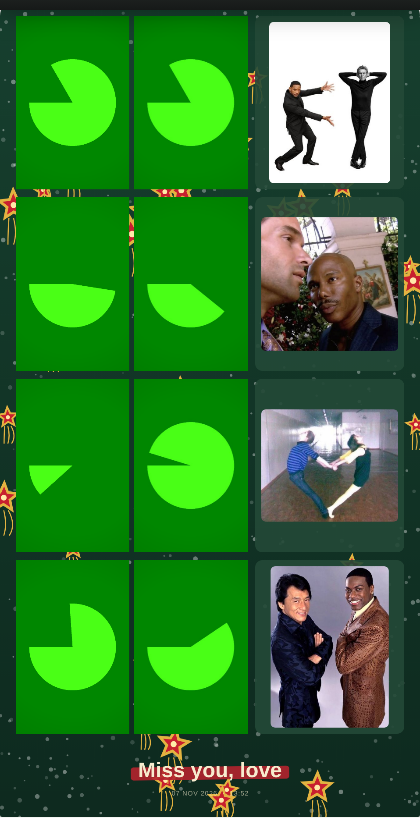
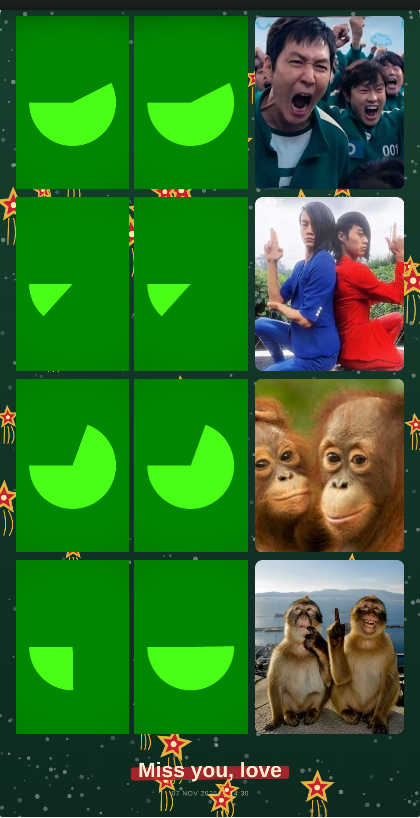
Memes fill the whole side panel on the print
Each meme now covers its pose panel edge to edge, the same height as
the photo beside it (cropped to fit, kept toward the top for faces).

diff --git a/js/booth.js b/js/booth.js
@@ -120,9 +120,10 @@
     const cx = r.x + r.w / 2, cy = r.y + pad + ah / 2;
     if (poseMode === "meme") {
       const im = poseArt(idx, frame, duo);
-      if (im) { // the meme picture, whole, with rounded corners
-        const iw = im.naturalWidth || 100, ih = im.naturalHeight || 100, s = Math.min(aw / iw, ah / ih), w = iw * s, h = ih * s, x = cx - w / 2, y = cy - h / 2;
-        ctx.save(); ctx.beginPath(); ctx.roundRect ? ctx.roundRect(x, y, w, h, 10) : ctx.rect(x, y, w, h); ctx.clip(); ctx.drawImage(im, x, y, w, h); ctx.restore();
+      if (im) { // the meme fills the whole side panel, same height as the photo (cropped to fit, kept toward the top for faces)
+        const iw = im.naturalWidth || 100, ih = im.naturalHeight || 100, s = Math.max(r.w / iw, r.h / ih), w = iw * s, h = ih * s;
+        const x = r.x + (r.w - w) / 2, y = r.y + (r.h - h) * .3;
+        ctx.save(); ctx.beginPath(); ctx.roundRect ? ctx.roundRect(r.x, r.y, r.w, r.h, 16) : ctx.rect(r.x, r.y, r.w, r.h); ctx.clip(); ctx.drawImage(im, x, y, w, h); ctx.restore();
       }
     } else {
       const text = duo ? item[0] + item[1] : item[0], size = duo ? Math.min(ah * .55, aw * .38) : Math.min(ah, aw) * .62;
